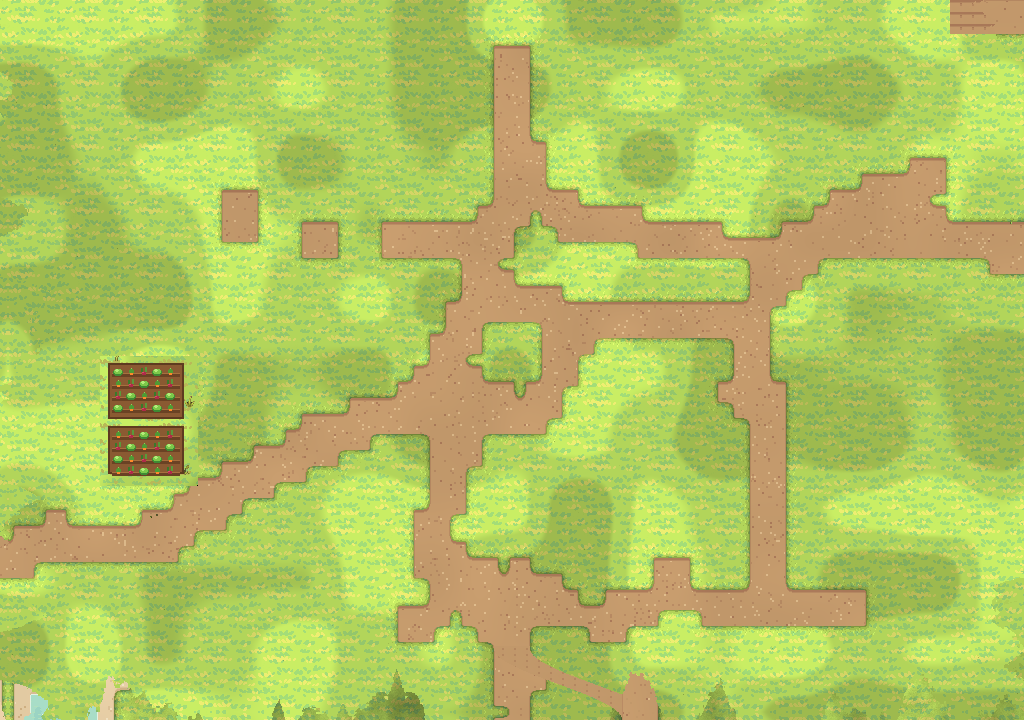
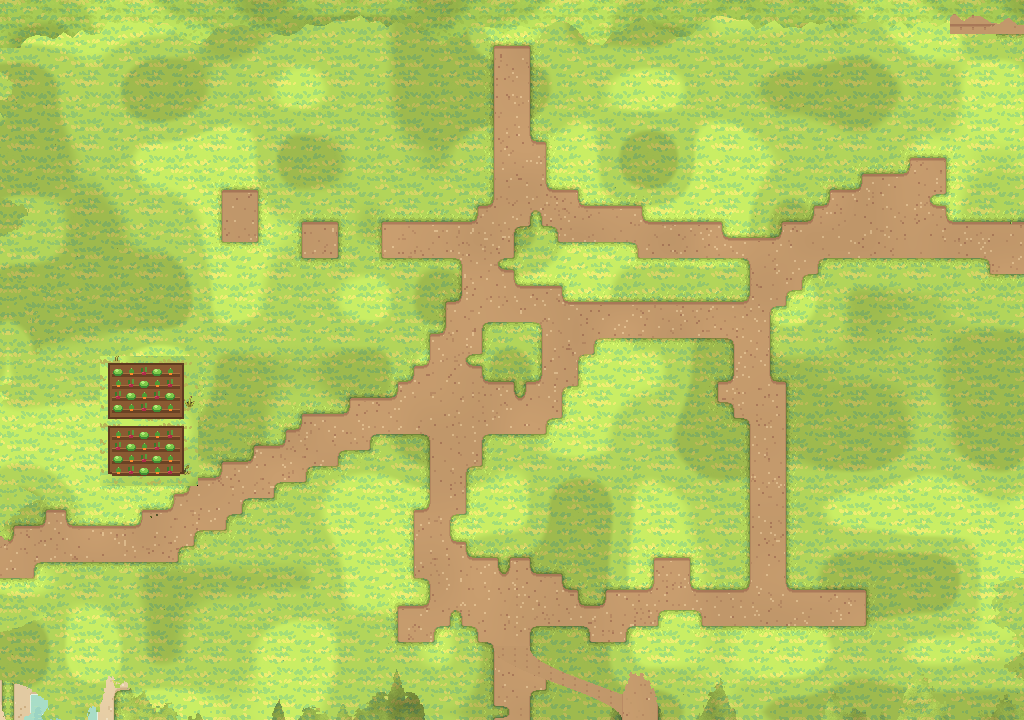
Tanah benua: tepi luar wilayah menyatu bergelombang dengan rumput pengisi
Claude-Session: https://claude.ai/code/session_013SaXTJuwinpA9vu4txrWbT

Changed region(s): [[0.0, 0.0, 1.0, 0.0611]]

diff --git a/tools/seam_ground.py b/tools/seam_ground.py
@@ -175,6 +175,50 @@ def blend(na, nb, seed):
     return oa, ob
 
 
+WILD = 'godot/assets/art/ground/gnd_wild_sprout.png'
+WILD_MOD = np.array([0.95, 0.97, 0.95])   # sama dengan modulate WildFillerLayer (benua_world.gd)
+
+
+def outer_fade(IMG, R, shared):
+    """Tepi wilayah yang tidak bersentuhan wilayah lain: garis lurus diganti gelombang yang menyatu dengan rumput pengisi
+    luar wilayah (tekstur & posisi persis sama dengan WildFillerLayer: ubin dari continent_bounds().grow(900))."""
+    wild = np.array(Image.open(WILD).convert('RGB')).astype(float)
+    T = wild.shape[0]
+    bx = min(r[0] for r in R.values()) - 900
+    by = min(r[1] for r in R.values()) - 900
+    for n, (k, (x, y, w, h)) in enumerate(R.items()):
+        img = IMG[k]
+        for side in 'NSWE':
+            L = w if side in 'NS' else h
+            free = np.ones(L, bool)
+            for a0, a1 in shared[k][side]:
+                free[max(0, a0 - 8):min(L, a1 + 8)] = False
+            if not free.any():
+                continue
+            f = (smooth_noise(L, 500 + n * 7 + 'NSWE'.index(side)) * 0.5 + 0.5) * BAND * 0.8 + 6
+            for i in np.nonzero(free)[0]:
+                d = int(f[i])
+                for j in range(d):
+                    if side == 'N': px, py = i, j
+                    elif side == 'S': px, py = i, h - 1 - j
+                    elif side == 'W': px, py = j, i
+                    else: px, py = w - 1 - j, i
+                    gx, gy = x + px - bx, y + py - by
+                    img[py, px, :3] = (wild[gy % T, gx % T] * WILD_MOD).astype(np.uint8)
+                    img[py, px, 3] = 255
+
+
+def shared_spans(R):
+    out = {k: {s: [] for s in 'NSWE'} for k in R}
+    for a, b, side, g0, g1 in edges(R):
+        ax, ay = R[a][0], R[a][1]; bx_, by_ = R[b][0], R[b][1]
+        if side == 'S':
+            out[a]['S'].append((g0 - ax, g1 - ax)); out[b]['N'].append((g0 - bx_, g1 - bx_))
+        else:
+            out[a]['E'].append((g0 - ay, g1 - ay)); out[b]['W'].append((g0 - by_, g1 - by_))
+    return out
+
+
 def main():
     R = regions()
     IMG = {}
@@ -191,6 +235,7 @@ def main():
         put(IMG[a], R[a], side, g0, g1, depth, False, sa)
         put(IMG[b], R[b], side, g0, g1, depth, True, sb)
         print('sambung', a, b, side, g1 - g0)
+    outer_fade(IMG, R, shared_spans(R))
     for k, a in IMG.items():
         Image.fromarray(a).save(OUT % k)
 

diff --git a/tools/ground_src/README.md b/tools/ground_src/README.md
@@ -2,7 +2,7 @@
 
 `gnd_<id>_custom.png` di sini adalah SUMBER untuk `python3 tools/seam_ground.py`, yang menulis
 `godot/assets/art/ground/gnd_<id>_custom.png` (ukuran disamakan dengan kotak wilayah di `godot/core/world_layout.gd`,
-jalan disambung di perbatasan, batas wilayah dibuat bergelombang).
+jalan disambung di perbatasan, batas wilayah dibuat bergelombang; tepi luar menyatu dengan rumput pengisi `gnd_wild_sprout.png`).
 
 Semua 14 wilayah memakai gaya KOTAK-KOTAK (petak Sprout 16 px; permintaan pemilik): dirender dengan autotile Sprout + biome
 versi web lama (commit b4a5fae, `genGround()` di src/world/ground.js) dari gambar kelas tiap wilayah. Jalan kota = paving batu.
